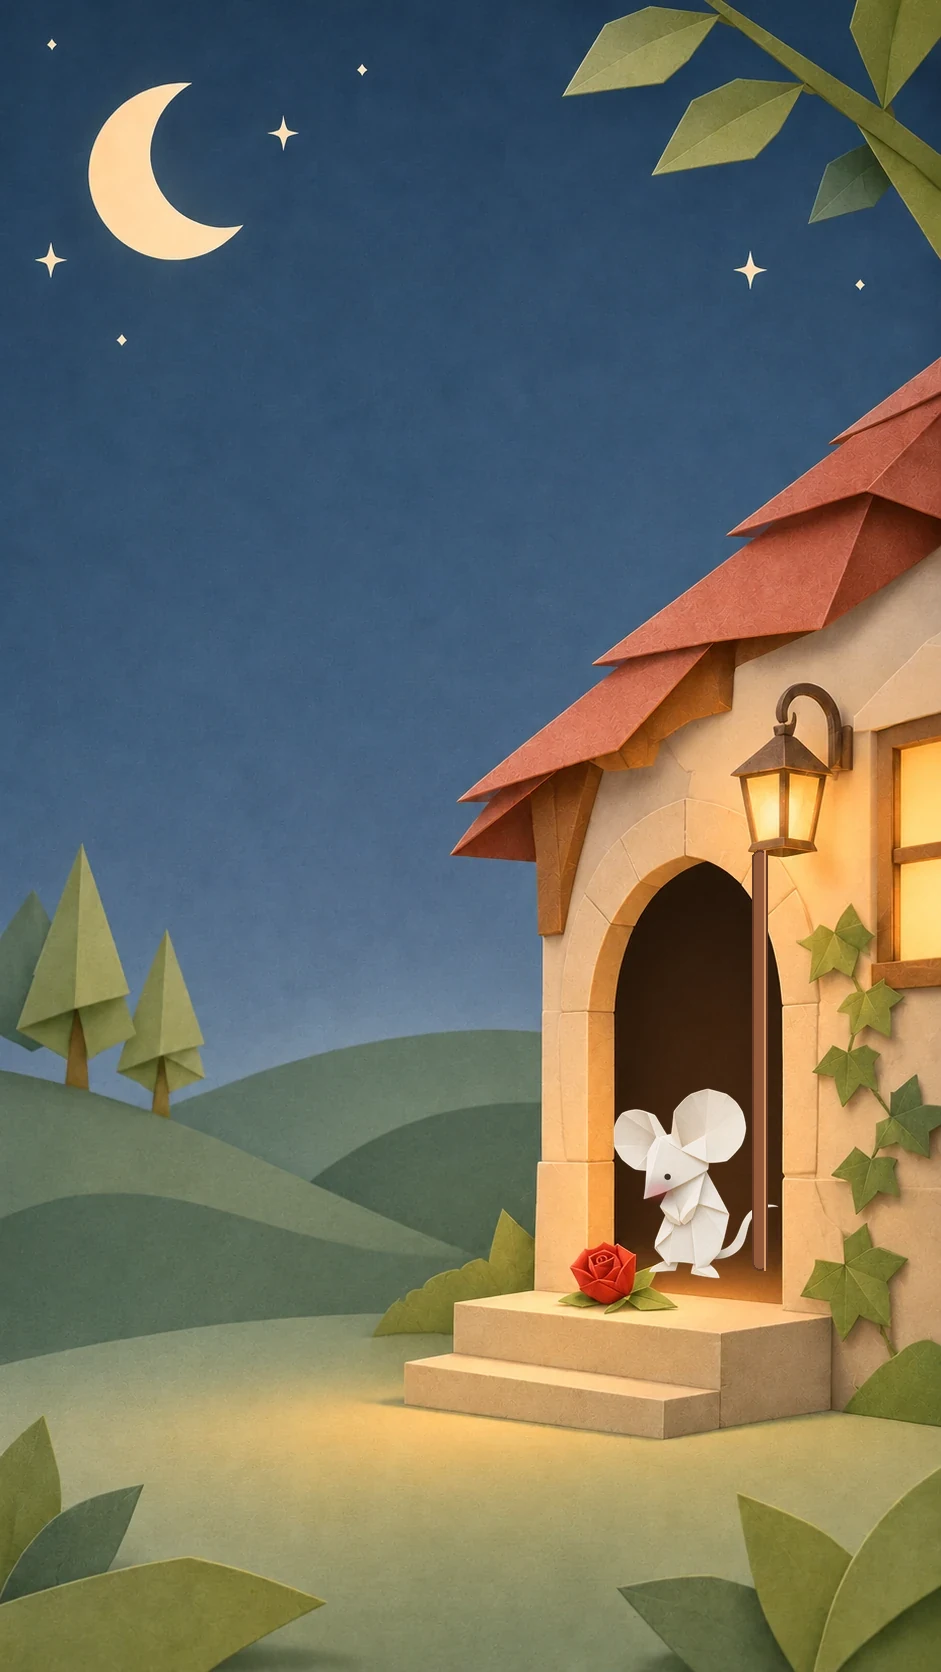
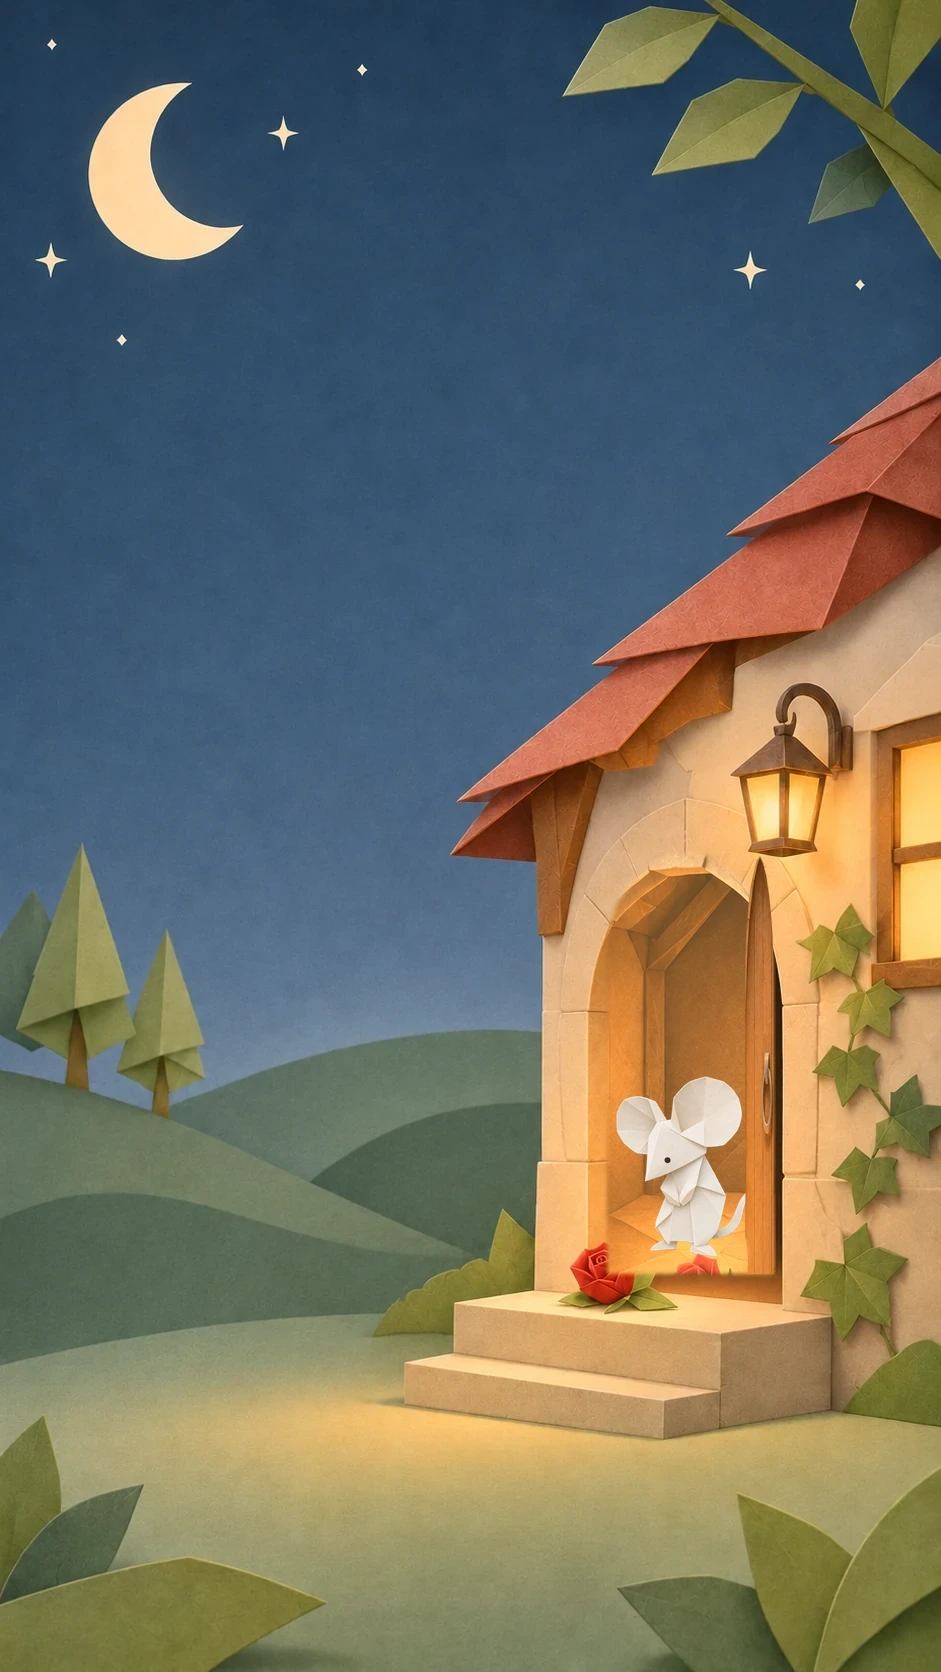
Reparar casa final: interior ilustrado y puerta de madera sin hueco oscuro

Changed region(s): [[0.6472, 0.4976, 0.8321, 0.7775]]

diff --git a/web/cuentos/raton-rosa/cuento.css b/web/cuentos/raton-rosa/cuento.css
@@ -18,8 +18,8 @@ body{margin:0;min-width:280px;background:var(--papel);color:var(--tinta);-webkit
 .lamina--hallazgo{--foto:url('img/03-hallazgo.webp')}
 .lamina--noche{--foto:url('img/04-viaje-nocturno.webp')}
 .lamina--entrega{--foto:url('img/05-puerta.webp')}
-.lamina--puerta{--foto:url('img/05-puerta-fondo.webp')}
-.lamina--amanecer{--foto:url('img/05-puerta-fondo.webp')}
+.lamina--puerta{--foto:url('img/05-casa-interior.webp')}
+.lamina--amanecer{--foto:url('img/05-casa-interior.webp')}
 
 
 
@@ -79,7 +79,7 @@ html:not(.js) .pasaje{min-height:100svh;background:var(--imagen) center center/c
 .raton-blanco>img{position:absolute;inset:0;width:100%;height:100%;max-width:none;object-fit:contain;transform:none;}
 .mejilla{position:absolute;left:34%;top:49%;width:20%;height:10%;background:radial-gradient(ellipse,rgba(207,114,118,.51) 0%,rgba(228,145,145,.20) 45%,transparent 78%);opacity:0;border-radius:50%;mix-blend-mode:multiply;transform:rotate(-15deg);pointer-events:none;}
 /* Puerta recortada del propio dibujo, con textura y pliegues idénticos a los de la casa. */
-.escenario-puerta img.hoja-puerta{position:absolute;left:62.27%;top:50.66%;width:21.47%;height:26.56%;object-fit:fill;max-width:none;z-index:3;transform-origin:100% 52%;transform-style:preserve-3d;filter:drop-shadow(-1px 2px 3px rgba(27,16,12,.17));}
+.escenario-puerta img.hoja-puerta{position:absolute;left:64.0%;top:51.1%;width:17.0%;height:25.1%;object-fit:fill;max-width:none;z-index:3;transform-origin:100% 52%;transform-style:preserve-3d;filter:drop-shadow(-1px 2px 3px rgba(27,16,12,.17));}
 .resplandor-amanecer{position:absolute;inset:0;z-index:4;pointer-events:none;background:linear-gradient(165deg,rgba(255,207,146,.15),rgba(246,202,147,.18) 50%,rgba(255,239,198,.25));mix-blend-mode:screen;}
 @media (min-aspect-ratio:4/3){
  .escenario-puerta{width:calc(100svh * 941 / 1672);height:100svh;}
@@ -105,3 +105,13 @@ html:not(.js) .pasaje{min-height:100svh;background:var(--imagen) center center/c
 /* Pausa visual: tras entregar la rosa, el scroll abre la puerta sin añadir texto nuevo al cuento. */
 .pasaje--puerta{min-height:145svh}
 @media (prefers-reduced-motion:reduce){.pasaje--puerta{min-height:100svh}}
+
+/* Puerta corregida: madera sola sobre un interior de papel, sin modificar el arco de piedra.
+   En horizontal mantenemos la casa completa a la derecha y el texto en el espacio libre. */
+@media (min-aspect-ratio:4/3){
+ .lamina--puerta .escenario-puerta,.lamina--amanecer .escenario-puerta{left:73%;}
+ .lamina--puerta::before,.lamina--amanecer::before{filter:blur(32px) saturate(.8);}
+}
+@media(max-aspect-ratio:4/3){
+ .lamina--puerta .escenario-puerta,.lamina--amanecer .escenario-puerta{left:47%;}
+}

diff --git a/web/cuentos/raton-rosa/index.html b/web/cuentos/raton-rosa/index.html
@@ -39,25 +39,25 @@
       </div>
     </div>
     <div class="lamina lamina--entrega" data-lamina="5" data-x="0" data-y="-1" data-z=".045"><img src="img/05-puerta.webp" alt=""></div>
-    <div class="lamina lamina--puerta" data-lamina="6" data-x="0" data-y="-1" data-z=".035">
+    <div class="lamina lamina--puerta" data-lamina="6" data-x="0" data-y="0" data-z="0">
       <div class="escenario-puerta" data-escenario-puerta>
-        <img class="fondo-casa" src="img/05-puerta-fondo.webp" alt="">
+        <img class="fondo-casa" src="img/05-casa-interior.webp" alt="">
         <div class="raton-blanco" aria-hidden="true">
           <img src="img/raton-blanco.webp" alt="">
           <span class="mejilla" aria-hidden="true"></span>
         </div>
-        <img class="hoja-puerta" src="img/puerta-papel.webp" alt="">
+        <img class="hoja-puerta" src="img/05-puerta-hoja-limpia.webp" alt="">
       </div>
     </div>
-    <div class="lamina lamina--amanecer" data-lamina="7" data-x="-1" data-y="0" data-z=".035">
+    <div class="lamina lamina--amanecer" data-lamina="7" data-x="0" data-y="0" data-z="0">
       <div class="escenario-puerta escena-amanecer" data-escenario-puerta>
-        <img class="fondo-casa" src="img/05-puerta-fondo.webp" alt="">
+        <img class="fondo-casa" src="img/05-casa-interior.webp" alt="">
         <span class="resplandor-amanecer" aria-hidden="true"></span>
         <div class="raton-blanco" aria-hidden="true">
           <img src="img/raton-blanco.webp" alt="">
           <span class="mejilla" aria-hidden="true"></span>
         </div>
-        <img class="hoja-puerta" src="img/puerta-papel.webp" alt="">
+        <img class="hoja-puerta" src="img/05-puerta-hoja-limpia.webp" alt="">
       </div>
     </div>
   </div>

diff --git a/web/cuentos/raton-rosa/README.md b/web/cuentos/raton-rosa/README.md
@@ -40,3 +40,15 @@ Ocho pruebas automatizadas comprueban texto original, ocho láminas, recursos, c
 ## Publicación
 
 Rama de revisión y PR #1. No fusionar ni publicar hasta la aprobación. Solo después se asignará la URL permanente de la tarjeta QR.
+
+## Corrección de escena final (noviembre 2026)
+Se sustituyó el hueco negro de la puerta por una textura de interior cálido procedente de la ilustración de origami. La puerta de madera se separó del arco de piedra y de la rosa, que permanecen fijos. El fondo de la casa se mantiene completo y a la derecha en formato panorámico. El ratón blanco aparece únicamente después de la entrega del ratón marrón. La revisión visual real en varios tamaños sigue siendo obligatoria antes de publicar.
+
+### V5 · Reparación del desenlace
+
+- La escena del ratón marrón dejando la rosa permanece antes de la reacción del ratón blanco.
+- El fondo de las dos escenas finales es ahora `img/05-casa-interior.webp`: la casa, el jardín y la rosa siguen dibujados y el hueco oscuro del vano se sustituyó por un interior de papel iluminado.
+- `img/05-puerta-hoja-limpia.webp` contiene solo la hoja de madera animable, sin arrastrar el arco ni la rosa. Se mantiene el giro con el scroll, pero la casa no se mueve.
+- Las escenas de apertura y desenlace comparten exactamente el mismo encuadre y no producen imagen fantasma en la transición.
+- Las alternativas estáticas (`05-puerta-estatica.webp` y `06-amanecer-estatico.webp`) reflejan el fondo corregido.
+- Antes del merge, revisar el acabado en navegadores reales y tamaños pequeños/grandes. El entorno impide navegar a archivos locales, aunque se ha comprobado una representación incrustada en Chromium móvil.
